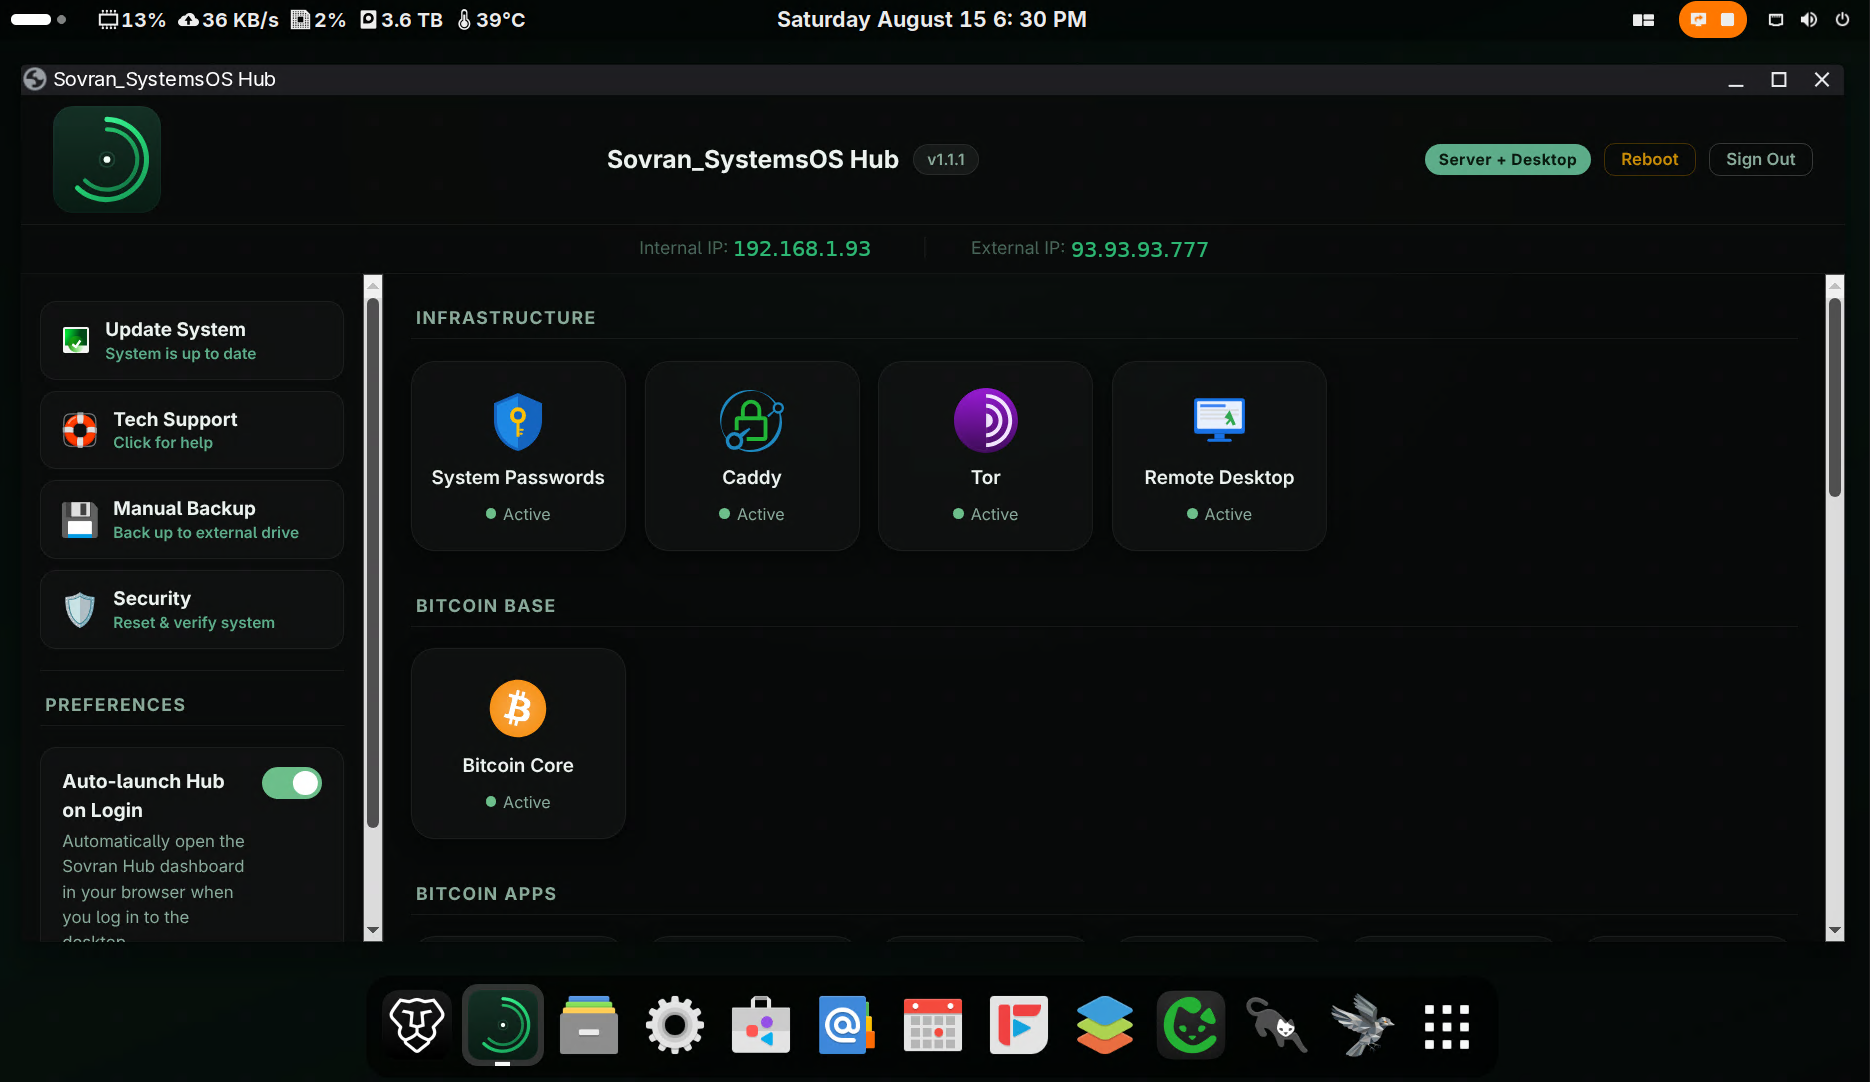
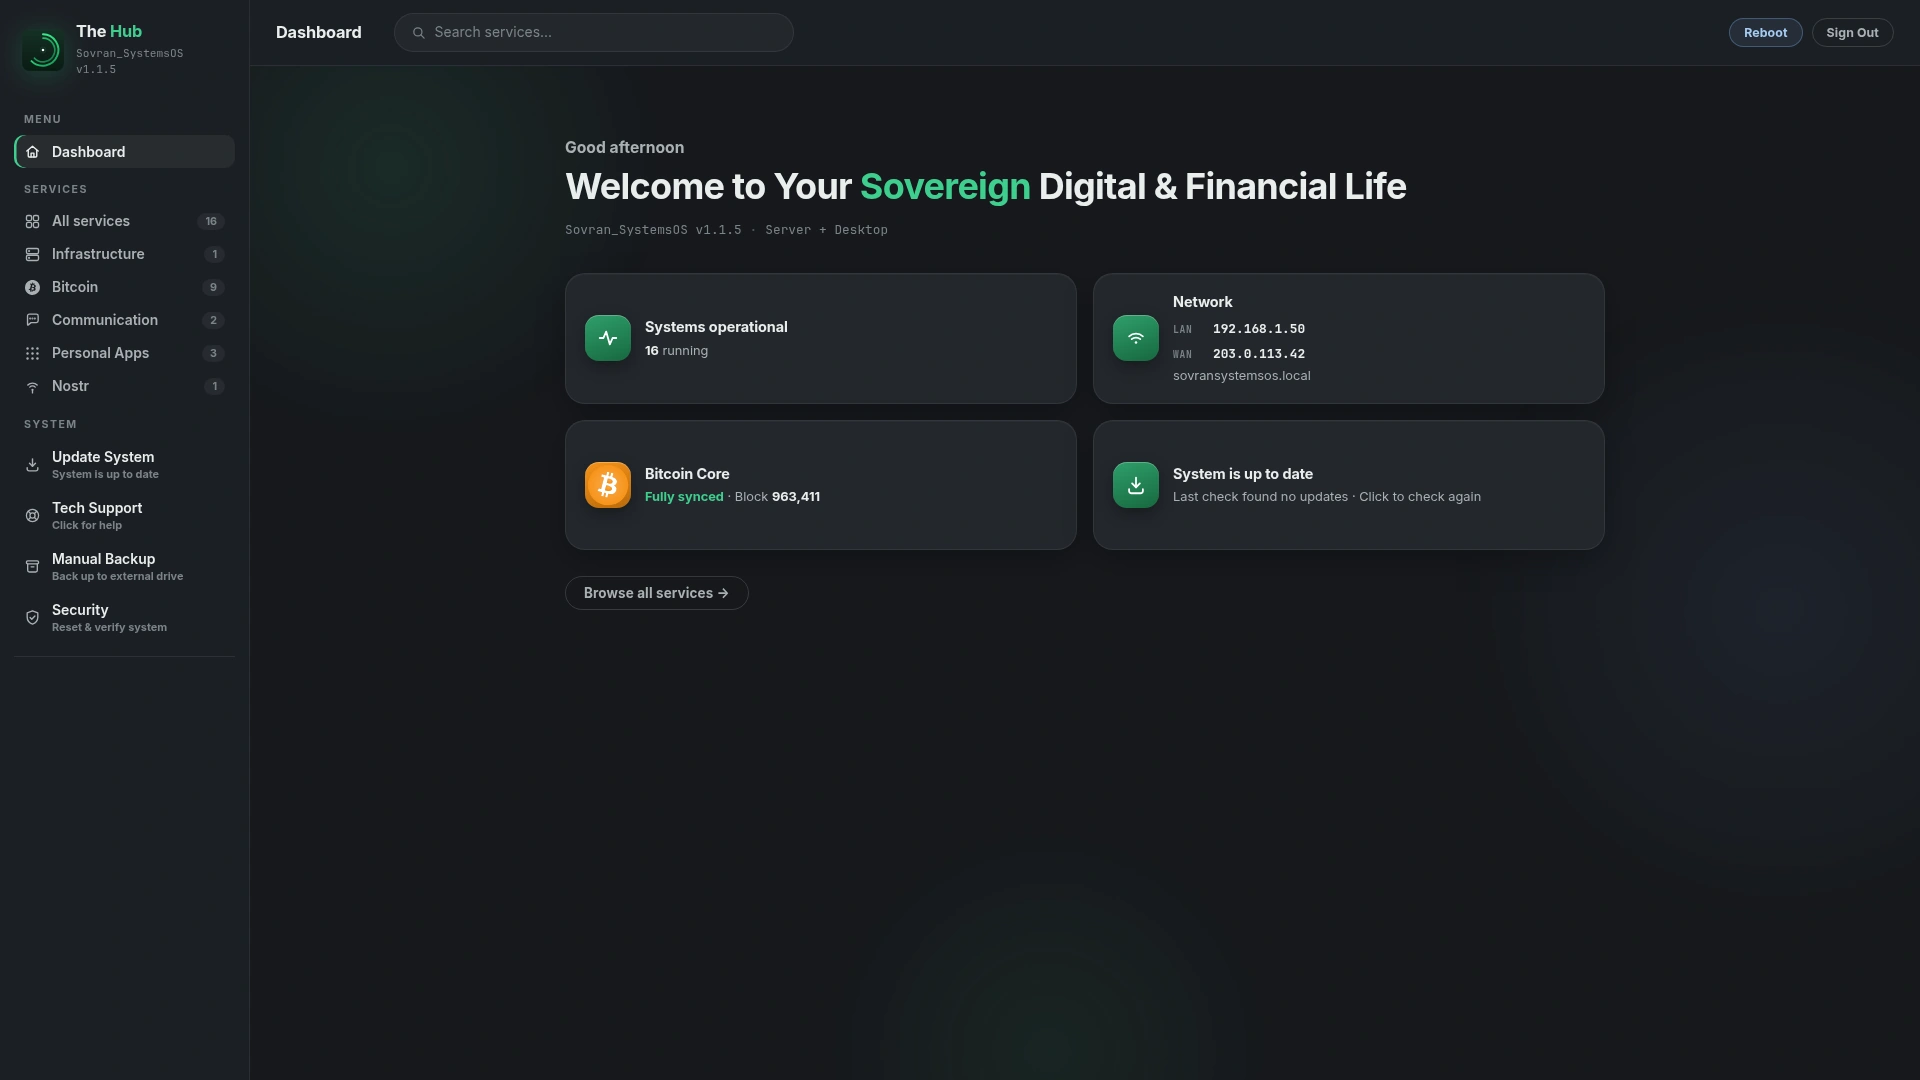
docs: update Sovran Hub screenshot to the v1.1.5 redesign
Replace the pre-redesign Hub capture with the new welcome dashboard
introduced in v1.1.5 — the default view showing system status, Bitcoin
sync, and the update card at a glance.

The capture is rendered from the real Hub frontend (Server + Desktop
role, demo credentials/domains) at 1920x1080, and doubles as the hero
shot of the marketing kit.  Also drops the asset from 391 KB to 59 KB
with no visible loss.

diff --git a/README.md b/README.md
@@ -281,9 +281,9 @@ From one place, the Hub helps you:
 - Reach your Bitcoin tools, private cloud, and communications
 - Perform supported system operations without everyday terminal commands
 
-<img src="assets/sovran-hub-screenshot.webp" alt="The Sovran Hub dashboard" width="800" />
+<img src="assets/sovran-hub-screenshot.webp" alt="The Sovran Hub welcome dashboard" width="800" />
 
-*The Sovran Hub: manage your private infrastructure from one place.*
+*The Sovran Hub: your whole system at a glance — Bitcoin, Lightning, and your private apps.*
 
 ### Example home setup
 
